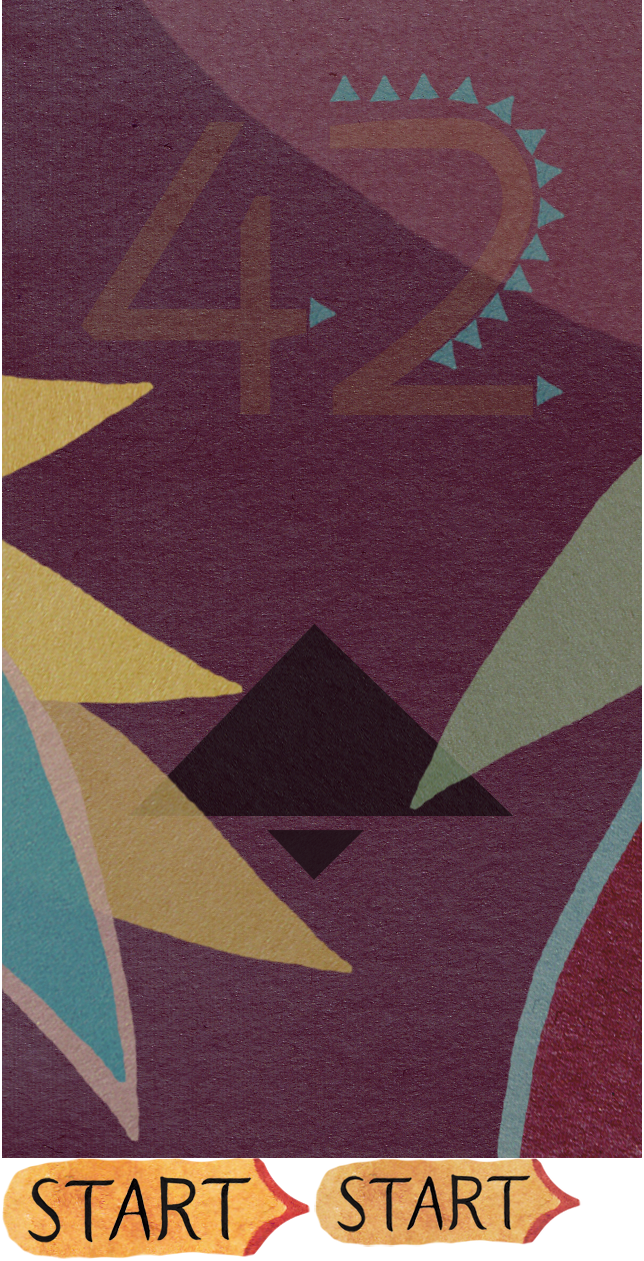
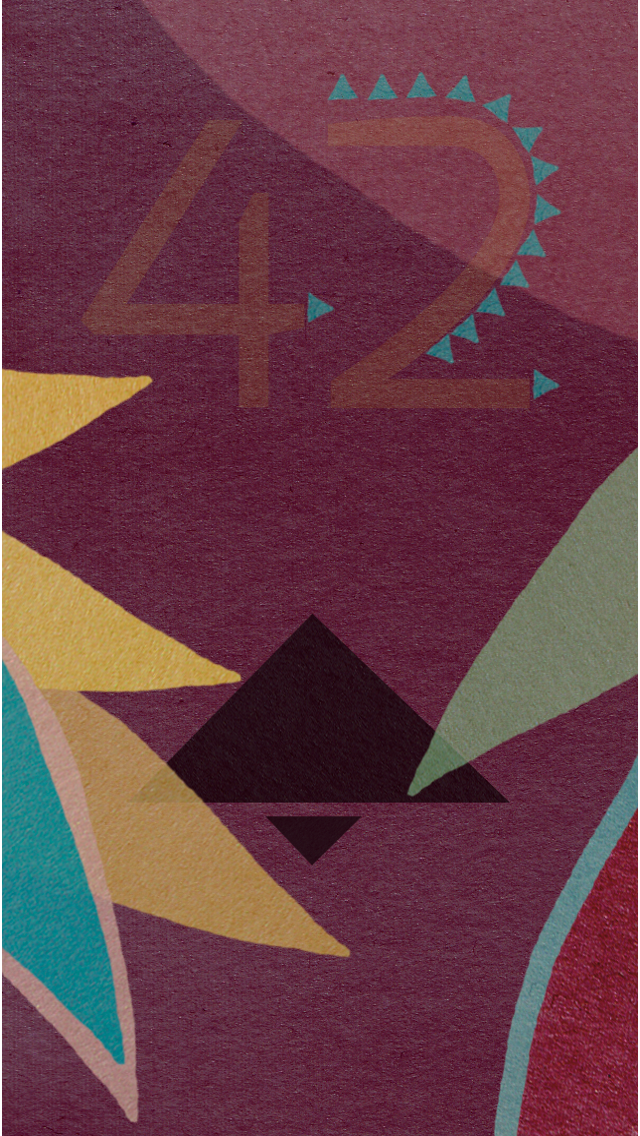
Titlescreen new behaviour

diff --git a/src/app.js b/src/app.js
@@ -160,8 +160,17 @@ var _42GameLayer = cc.Layer.extend({
     ////////////////////////////////////////////////////////////////////////////
     // endGame cleans up after a game is finished
     endGame: function() {
+        ///////////////////
     	// delete all boxes
-		for( var i=0 ; i<$42.BOXES_PER_COL ; i++ ) this.deleteRow(i,true);		
+		for( var i=0 ; i<$42.BOXES_PER_COL ; i++ ) this.deleteRow(i,true);
+
+        ///////////////////
+        // delete scoreBar
+        _42_release( $42._scoreBar );
+		_42_release( $42._rollingLayer );
+
+		$42._scoreBar.removeAllChildren(true);
+        this.removeChild($42._scoreBar);
     },
     
     ////////////////////////////////////////////////////////////////////////////
@@ -228,7 +237,7 @@ var _42GameLayer = cc.Layer.extend({
 
         ////////////////////////////////
         // create score bar
-        var sb = $42.scoreBar = new cc.LayerColor(cc.color(128,0,0,0),cc.width,$42.BOXES_Y_OFFSET);
+        var sb = $42._scoreBar = new cc.LayerColor(cc.color(128,0,0,0),cc.width,$42.BOXES_Y_OFFSET);
 
         sb.setPosition(0,0);
         sb.setOpacity(0);
@@ -1384,47 +1393,67 @@ var _42TitleLayer = cc.Layer.extend({
         var self = this,
         	size = this.size = cc.director.getWinSize();
 
-		cc.spriteFrameCache.addSpriteFrames(res.title_plist);
-
         cc.width  = cc.director.getWinSize().width;
         cc.height = cc.director.getWinSize().height;
 
 		var addImage = function(options) {
-			var sprite = cc.Sprite.create(cc.spriteFrameCache.getSpriteFrame(options.image));
+			var sprite = cc.Sprite.create(cc.spriteFrameCache.getSpriteFrame(options.image) || options.image);
 			sprite.setPosition(options.pos || cc.p(size.width/2,size.height/2));
 			sprite.setOpacity(options.opacity !== undefined? options.opacity : 255);
-			sprite.setScale(options.scale || 1);
+			sprite.setScale(options.scale !== undefined? options.scale : 1);
 			sprite.setRotation(options.rotation || 0);
-			_42_retain(sprite, "title sprite "+options.tag);
-			cc.log("Trying to add sprite: "+options.image+" / "+options.tag);
-	        (options.parent || self).addChild(sprite, 0, options.tag);
+			_42_retain(sprite, "Title sprite ");
+	        (options.parent || self).addChild(sprite, 0);
 	        return sprite;
 		};
 		
+		var addText = function(options) {
+			var label = cc.LabelTTF.create(options.text, _42_getFontName(res.exo_regular_ttf) , options.size);
+			label.setPosition(options.pos || cc.p(size.width/2,size.height/2));
+			label.setColor(options.color || cc.color(0,0,0));
+			label.setOpacity(options.opacity !== undefined? options.opacity : 255);
+			label.setRotation(options.rotation || 0);
+			label.setScale(options.scale !== undefined? options.scale : 1);
+			_42_retain(label, "Title text label");	
+	        (options.parent || self).addChild(label, 0);
+	        return label;
+		};
+		
+        var background = cc.Sprite.create(res["background"+("0"+$42.currentLevel).slice(-2)+"_png"]);
 		var titleBg = addImage({
-			image: "42background.png", 
+			image: res["title_png"], 
 			opacity: 0,
-			parent: self,
-			tag:	$42.TAG_NONE
+            scale: 1.1,
 		});
 
+        var titleTitle = addText({
+            text: $42.t.title_title,
+            pos: cc.p(cc.width/2, 650),
+            color: cc.color(215,173,10),
+            size: 130,
+            opacity: 0,
+            parent: titleBg
+        });
+
         titleBg.runAction(
-            cc.fadeIn(3)
+            cc.fadeIn(2)
+        );
+
+        titleTitle.runAction(
+            cc.fadeIn(5)
         );
 		
         // Show menu items
-		var addMenu = function(name, fontSize, cb) {
+		var addMenu = function(name, fontSize, color, cb) {
 	        var item = new cc.MenuItemFont(name, cb, self);
 	        item.setFontName("Arial");        	
 	        item.setFontSize(fontSize);  
-	        item.setColor($42.TITLE_MENU_COLOR);
+	        item.setColor(color);
 	        
 	        return item;
 		}
 		
-		var buttonImage = cc.spriteFrameCache.getSpriteFrame("start.png"),
-			buttonImage2 = cc.spriteFrameCache.getSpriteFrame("start2.png");
-        var item1 = cc.MenuItemImage.create(buttonImage, buttonImage2, function() {
+        var item1 = addMenu($42.t.title_start, 60 , cc.color(115,63,78) ,  function() {
         	// start game layer
         	self.getParent().addChild(new _42GameLayer(), 1, $42.TAG_GAME_LAYER);
 
@@ -1444,25 +1473,23 @@ var _42TitleLayer = cc.Layer.extend({
 
         }, self);
 	
-        item1.setScale(0.7);
-
         var ls = cc.sys.localStorage;
         $42.wordTreasureWords = ls.getItem("wordTreasureWords") || 0;
         $42.maxPoints = ls.getItem("maxPoints") || 0;
         $42.bestTime = ls.getItem("bestTime") || null;
-        var item2 = addMenu($42.maxPoints? $42.t.title_hiscore+": "+$42.maxPoints : " ", 36 , function() {
+        var item2 = addMenu($42.maxPoints? $42.t.title_hiscore+": "+$42.maxPoints : " ", 36 , cc.color(173,141,93) , function() {
         	cc.director.runScene(new _42Scene());
         });
-        var item3 = addMenu($42.wordTreasureWords? $42.t.title_words+": "+$42.wordTreasureWords : " ", 36 , function() {
+        var item3 = addMenu($42.wordTreasureWords? $42.t.title_words+": "+$42.wordTreasureWords : " ", 36 , cc.color(173,141,93) , function() {
         	// can be filled
         });
-        var item4 = addMenu($42.bestTime? $42.t.title_besttime+": "+($42.bestTime/3600>>>0)+":"+("0"+($42.bestTime/60>>>0)%60).substr(-2,2) : " ", 36 , function() {
+        var item4 = addMenu($42.bestTime? $42.t.title_besttime+": "+($42.bestTime/3600>>>0)+":"+("0"+($42.bestTime/60>>>0)%60).substr(-2,2) : " ", 36 , cc.color(173,141,93) , function() {
         	// can be filled
         });
 
         var menu = cc.Menu.create.apply(this, [item1, item2, item3, item4] );
         menu.x = size.width/2;
-        menu.y = 200;
+        menu.y = 290;
         menu.setOpacity(0);
         titleBg.addChild(menu, 10);       
         menu.alignItemsVerticallyWithPadding(20);

diff --git a/src/words/words.js b/src/words/words.js
@@ -539,14 +539,14 @@ var _42_MODULE = function(_42Layer) {
 
             ///////////////////////////////77
             // Draw word on screen
-			var label = ml.levelLabels[i] = cc.LabelTTF.create(text, _42_getFontName(res.exo_regular_ttf) , 72);
+			var label = this.levelLabels[i] = cc.LabelTTF.create(text, _42_getFontName(res.exo_regular_ttf) , 72);
 			label.setPosition(cc.width/2,cc.height*0.8-i*150);
 			label.setColor(cc.color(0,0,0));
 			label.setOpacity(0);
 			_42_retain(label, "Level label ("+i+")");	
 			background.addChild(label, 0);
 
-            label.runAction(cc.fadeTo(10,30));
+            label.runAction(cc.fadeTo(5,30));
         }
 
         ml.levelPool = level.type===$42.LEVEL_TYPE_FREE? tmpPool : pool;
@@ -1393,7 +1393,7 @@ var _42_MODULE = function(_42Layer) {
             wtJSON = ls.getItem("wordTreasure"),
         	wt = $42.wordTreasure = wtJSON? JSON.parse(wtJSON) : [],
             lv = $42.currentLevel = ls.getItem("currentLevel") || 1,
-		    wp = $42.wordProfile = parseInt(ls.getItem("wordProfile")) || 0x3fffffff, // 127 == first 7 letters in the letter order
+		    wp = $42.wordProfile = parseInt(ls.getItem("wordProfile")) || 0x7f, // 127 == first 7 letters in the letter order
             lo = $42.letterOrder;
 
 		// remove all words that are already in the treasure
@@ -1435,40 +1435,21 @@ var _42_MODULE = function(_42Layer) {
 		// deselect word
 		this.unselectWord();
 
-		// delete scorebar
-		var releaseChildren = function(sprite) {
-			if( sprite ) {
-				var ch = sprite.getChildren();
-				for( var i=0 ; i<ch.length ; i++ ) {
-					_42_release(ch[i]);
-				}			
-			}
-		};
-		
 		var releaseSprite = function(sprite) {
 			if( !sprite ) debugger;
 			_42_release(sprite);
 		};
 		
-		var sb = this.scoreBar,
-			rl = $42.rollingLayer,
-			dpl = $42.displayedProfileLetters;
-		releaseChildren( ml.bestWordSprite );
+		var dpl = $42.displayedProfileLetters;
 		releaseSprite( ml.bestWordSprite );
 		for( var i=0 ; i<dpl.length ; i++ ) {
-			releaseChildren( dpl[i] );
 			releaseSprite( dpl[i] );
 		}
-		releaseSprite(ml.highscore);
 		releaseSprite(ml.bestWordValue);
 		releaseSprite(ml.score_words_mini);
 		releaseSprite(ml.score_points);
 		releaseSprite(ml.score_words_label);
 		releaseSprite(ml.score_words);
-		releaseSprite(rl);
-		releaseSprite(sb);
-
-		sb.removeAllChildren(true);
 	};
 
 	/*

diff --git a/src/resource.js b/src/resource.js
@@ -6,7 +6,6 @@ var res = {
     letters_png : "res/images/letters/letters.png",
     letters_plist : 'res/images/letters/letters.plist',
     title_png : "res/images/title/title.png",
-    title_plist : 'res/images/title/title.plist',
 	background01_png : "res/images/backgrounds/level01.png",
 	background02_png : "res/images/backgrounds/level02.png",
 	background03_png : "res/images/backgrounds/level03.png",
